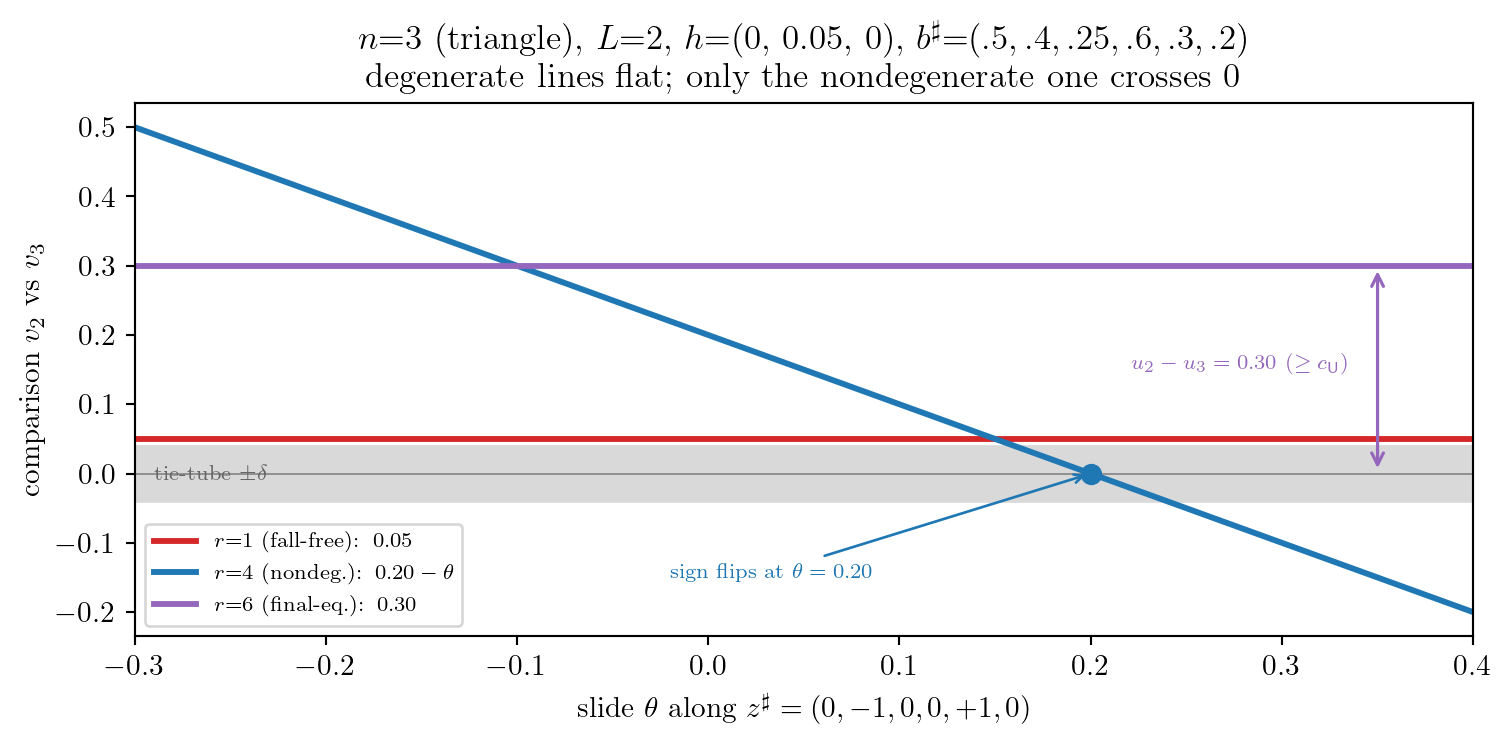
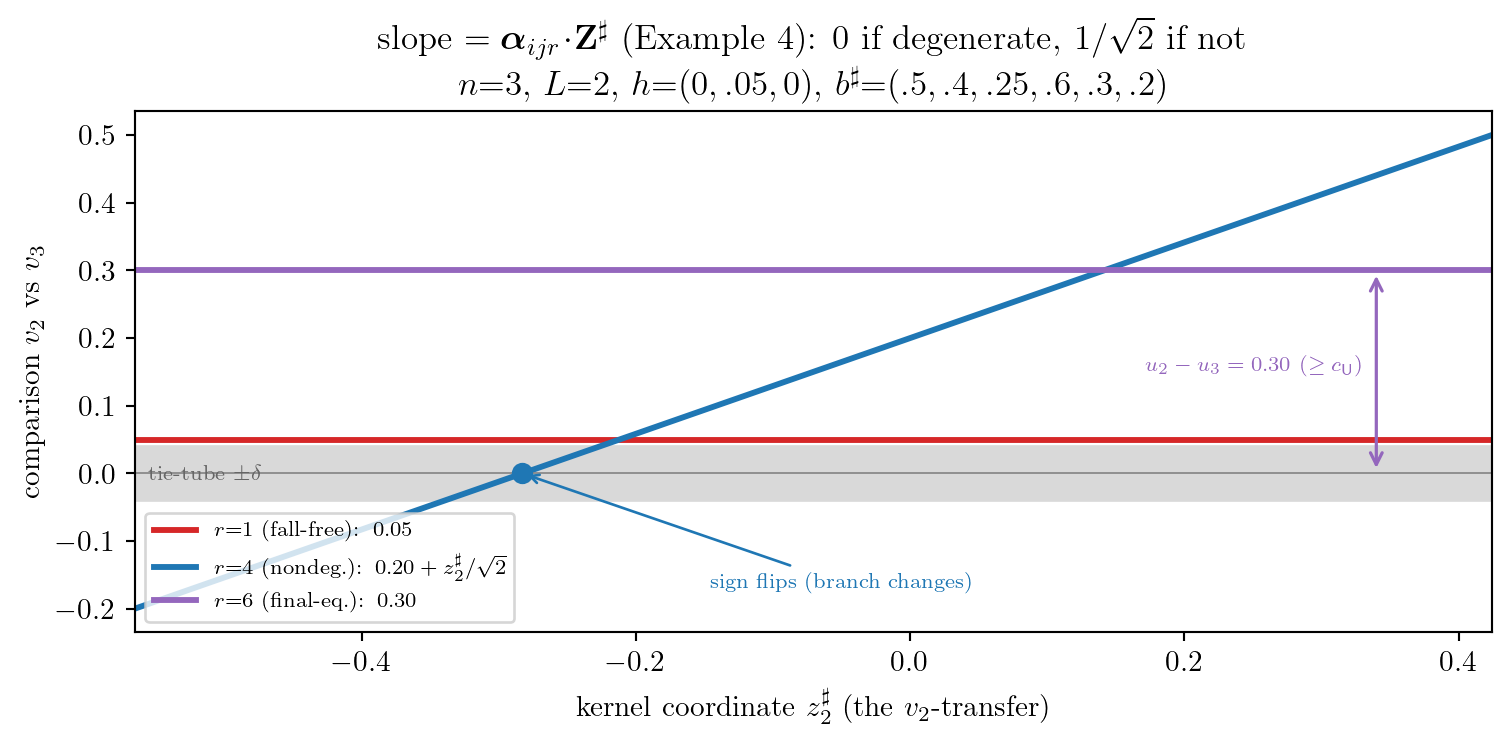
소미: 팟캐스트 z# 예제 논문기호로 전면 정합 (대표: θ도 새 기호라 안됨, 논문과 맞춰라 + 매우 자세히) — 슬라이드를 논문 커널좌표 z#_2 로(정규직교 Z# 명시, Example 1), 기울기=α·Z#(=1/√2, Example 4)로 단계계산, figure축 z#_2. θ·사족 제거. 검산: 기울기 0/0.7071/0 = α·Z2 일치

diff --git a/docs/Posts/260720_487261.html b/docs/Posts/260720_487261.html
@@ -293,17 +293,35 @@ window.Quarto = {
 </tbody>
 </table>
 <p><strong>G.</strong> 그럼 <span class="math inline">\(\mathbf{z}^{\sharp}\)</span> 은 구체적으로 뭐예요?</p>
-<p><strong>H.</strong> <span class="math inline">\(v_2\)</span> 의 두 낙하(2번·5번) 사이 이동이에요. 벡터로 딱 쓰면</p>
+<p><strong>H.</strong> 딴 기호 안 만들고 <strong>논문의 커널 좌표 그대로</strong>예요. 앞 회차에서 낙하벡터를 <span class="math inline">\(\mathbf{b}^{\sharp} = (\mathbf{A}^{\sharp})^{+}\mathbf{a}^{\sharp} + \mathbf{Z}^{\sharp}\mathbf{z}^{\sharp}\)</span> 로 쪼갰죠 — 최종 높이차를 정하는 <span class="math inline">\(\mathbf{a}^{\sharp}\)</span> 와, 그걸 안 바꾸는 <strong>자유 좌표</strong> <span class="math inline">\(\mathbf{z}^{\sharp} = (z^{\sharp}_1, z^{\sharp}_2, z^{\sharp}_3, z^{\sharp}_4)\)</span>. 이 예(<span class="math inline">\(n{=}3, L{=}2\)</span>)의 정규직교 기저는 (논문 Example 1)</p>
 <p><span class="math display">\[
-\mathbf{z}^{\sharp}\ \text{방향} \;=\; (0,\,-1,\,0,\,0,\,+1,\,0),
+\mathbf{Z}^{\sharp} = \begin{pmatrix}
+\tfrac{1}{\sqrt2} &amp; 0 &amp; 0 &amp; \tfrac{1}{\sqrt6}\\[1pt]
+0 &amp; \tfrac{1}{\sqrt2} &amp; 0 &amp; \tfrac{1}{\sqrt6}\\[1pt]
+0 &amp; 0 &amp; \tfrac{1}{\sqrt2} &amp; \tfrac{1}{\sqrt6}\\[1pt]
+-\tfrac{1}{\sqrt2} &amp; 0 &amp; 0 &amp; \tfrac{1}{\sqrt6}\\[1pt]
+0 &amp; -\tfrac{1}{\sqrt2} &amp; 0 &amp; \tfrac{1}{\sqrt6}\\[1pt]
+0 &amp; 0 &amp; -\tfrac{1}{\sqrt2} &amp; \tfrac{1}{\sqrt6}
+\end{pmatrix}
+\begin{matrix} \leftarrow b_1\\ \leftarrow b_2\\ \leftarrow b_3\\ \leftarrow b_4\\ \leftarrow b_5\\ \leftarrow b_6 \end{matrix}
 \]</span></p>
-<p>즉 2번 낙하에서 <span class="math inline">\(\theta\)</span> 를 빼고 5번 낙하에 <span class="math inline">\(\theta\)</span> 를 더하는 거죠 — 비교를 <span class="math inline">\(\mathbf{z}^{\sharp}\)</span> 로 <strong>곱하는</strong> 게 아니라, 낙하량 벡터를 이 방향으로 <span class="math inline">\(\theta\)</span> 만큼 <strong>옮기는</strong> 거예요 (<span class="math inline">\(\theta\)</span> 는 미는 양; 시각 <span class="math inline">\(t\)</span> 와는 무관한 별개 기호). <span class="math inline">\(v_2\)</span> 총량 <span class="math inline">\(0.40{+}0.30{=}0.70\)</span> 은 안 변하니 최종 높이차도 안 변해요 — 이 방향을 fall map 에 넣으면 정확히 <span class="math inline">\(\mathbf{0}\)</span> 이 나와요(그래서 “자유 방향”, 커널). <span class="math inline">\(\theta\)</span> 는 두 낙하량이 <span class="math inline">\([0,1]\)</span> 을 안 벗어나는 <span class="math inline">\(-0.30\le\theta\le 0.40\)</span> 안에서 밀 수 있고요. 그럼 “<span class="math inline">\(v_2\)</span> vs <span class="math inline">\(v_3\)</span>” 비교값을 세 시점에서 <strong>직접 계산</strong>하면:</p>
+<p>네 열은 각각 “<span class="math inline">\(v_1\)</span> 안 이전 / <span class="math inline">\(v_2\)</span> 안 이전 / <span class="math inline">\(v_3\)</span> 안 이전 / 전체 균등 추가”예요.</p>
+<p><strong>G.</strong> 우리가 미는 건 어느 거예요?</p>
+<p><strong>H.</strong> <strong>둘째 좌표 <span class="math inline">\(z^{\sharp}_2\)</span></strong> — 곧 <span class="math inline">\(\mathbf{Z}^{\sharp}\)</span> 의 둘째 열 <span class="math inline">\(\bigl(0, \tfrac{1}{\sqrt2}, 0, 0, -\tfrac{1}{\sqrt2}, 0\bigr)^{\!\top}\)</span>, “<span class="math inline">\(v_2\)</span> 의 두 낙하(2·5번) 사이 이전”이에요. <span class="math inline">\(z^{\sharp}_2\)</span> 만 움직이면 낙하벡터가</p>
+<p><span class="math display">\[
+\mathbf{b}^{\sharp}(z^{\sharp}_2) = \mathbf{b}^{\sharp}_0 + z^{\sharp}_2\cdot\bigl(0, \tfrac{1}{\sqrt2}, 0, 0, -\tfrac{1}{\sqrt2}, 0\bigr)^{\!\top},
+\qquad\text{즉}\quad b_2 = 0.40 + \tfrac{z^{\sharp}_2}{\sqrt2},\ \ b_5 = 0.30 - \tfrac{z^{\sharp}_2}{\sqrt2}
+\]</span></p>
+<p>로 바뀌고 나머지 넷은 그대로예요. 두 낙하 합 <span class="math inline">\(b_2{+}b_5 = 0.70\)</span> 은 안 변하니 <span class="math inline">\(v_2\)</span> 총량 불변 → <span class="math inline">\(\mathbf{A}^{\sharp}\mathbf{b}^{\sharp}\)</span>(최종 높이차)도 불변, 그래서 커널이고요. 이게 “<span class="math inline">\(\mathbf{z}^{\sharp}\)</span> 방향으로 민다”의 정확한 뜻이에요 — 낙하벡터를 이 커널 열 방향으로 <strong>옮기는</strong> 것.</p>
+<p><strong>G.</strong> 그럼 각 비교가 <span class="math inline">\(z^{\sharp}_2\)</span> 에 어떻게 반응해요?</p>
+<p><strong>H.</strong> 비교 하나는 <span class="math inline">\(\Delta_{ij}(\text{시작}) + \boldsymbol{\alpha}_{ijr}\cdot\mathbf{b}^{\sharp}\)</span> 니까, <span class="math inline">\(z^{\sharp}_2\)</span> 에 대한 <strong>기울기 <span class="math inline">\(= \boldsymbol{\alpha}_{ijr}\cdot(\mathbf{Z}^{\sharp}\text{의 둘째 열})\)</span></strong> 예요 — 이게 논문 Example 4 의 <span class="math inline">\(\boldsymbol{\alpha}\cdot\mathbf{Z}^{\sharp}\)</span> 둘째 성분이고요. 셋을 직접 계산하면:</p>
 <ul>
-<li><strong><span class="math inline">\(r=1\)</span></strong>: <span class="math inline">\(v_2\)</span>·<span class="math inline">\(v_3\)</span> 에 낙하 전 → 값 <span class="math inline">\(= h(v_2){-}h(v_3) = 0.05\)</span> (<span class="math inline">\(\theta\)</span> 무관, 평평)</li>
-<li><strong><span class="math inline">\(r=4\)</span></strong>: <span class="math inline">\(v_2\)</span> 는 2번<span class="math inline">\((0.40{-}\theta)\)</span>만, <span class="math inline">\(v_3\)</span> 는 3번<span class="math inline">\((0.25)\)</span>만 → 값 <span class="math inline">\(= 0.05 + (0.40{-}\theta) - 0.25 = 0.20 - \theta\)</span> (<span class="math inline">\(\theta{=}0.20\)</span> 에서 <span class="math inline">\(0\)</span> 가로지름)</li>
-<li><strong><span class="math inline">\(r=6\)</span></strong>: <span class="math inline">\(v_2\)</span> 는 <span class="math inline">\(0.70\)</span>, <span class="math inline">\(v_3\)</span> 는 <span class="math inline">\(0.45\)</span> 다 → 값 <span class="math inline">\(= 0.05 + 0.70 - 0.45 = 0.30\)</span> (<span class="math inline">\(\theta\)</span> 무관, 평평)</li>
+<li><strong><span class="math inline">\(r=1\)</span></strong>: <span class="math inline">\(\boldsymbol{\alpha}_{2,3,1}=(0,0,0,0,0,0)\)</span> → 기울기 <span class="math inline">\(0\)</span>, 값 <span class="math inline">\(= 0.05\)</span> (평평, <strong>퇴화</strong>).</li>
+<li><strong><span class="math inline">\(r=4\)</span></strong>: <span class="math inline">\(\boldsymbol{\alpha}_{2,3,4}=(0,1,-1,0,0,0)\)</span> → 기울기 <span class="math inline">\(= 1\cdot\tfrac{1}{\sqrt2} = \tfrac{1}{\sqrt2}\)</span>, 값 <span class="math inline">\(= 0.05 + b_2 - b_3 = 0.20 + \tfrac{z^{\sharp}_2}{\sqrt2}\)</span> (<strong>비퇴화</strong>, <span class="math inline">\(z^{\sharp}_2 = -0.2\sqrt2\)</span> 에서 <span class="math inline">\(0\)</span> 가로지름).</li>
+<li><strong><span class="math inline">\(r=6\)</span></strong>: <span class="math inline">\(\boldsymbol{\alpha}_{2,3,6}=(0,1,-1,0,1,-1)\)</span> → 기울기 <span class="math inline">\(= 1\cdot\tfrac{1}{\sqrt2} + 1\cdot(-\tfrac{1}{\sqrt2}) = 0\)</span>, 값 <span class="math inline">\(= 0.05 + 0.70 - 0.45 = 0.30\)</span> (평평, <strong>퇴화</strong>).</li>
 </ul>
-<div id="2ffbb164" class="cell" data-execution_count="1">
+<p><span class="math inline">\(r=6\)</span> 이 <span class="math inline">\(0\)</span> 인 건 <span class="math inline">\(v_2\)</span> 의 두 낙하가 <span class="math inline">\(+\)</span> 로 같이 세지는데 <span class="math inline">\(z^{\sharp}_2\)</span> 열이 그 둘을 반대 부호로 움직여 상쇄되기 때문 — “다 옴이 퇴화”의 정체가 이거예요.</p>
+<div id="3f57620d" class="cell" data-execution_count="1">
 <div class="cell-output cell-output-display">
 <div class="quarto-figure quarto-figure-center">
 <figure class="figure">
@@ -312,7 +330,7 @@ window.Quarto = {
 </div>
 </div>
 </div>
-<p><strong>G.</strong> 계산 그대로네요 — 평평한 둘(빨강 <span class="math inline">\(0.05\)</span>·보라 <span class="math inline">\(0.30\)</span>)은 밀어도 안 변하고, 파란 것만 <span class="math inline">\(0.20{-}\theta\)</span> 로 기울어져 <span class="math inline">\(\theta{=}0.20\)</span> 에서 <span class="math inline">\(0\)</span> 을 지나요. 같은 비교가 시점 따라 세 종류를 다 거치는 거고요.</p>
+<p><strong>G.</strong> 계산 그대로네요 — 평평한 둘(빨강 <span class="math inline">\(0.05\)</span>·보라 <span class="math inline">\(0.30\)</span>)은 <span class="math inline">\(z^{\sharp}_2\)</span> 를 밀어도 안 변하고, 파란 것만 기울기 <span class="math inline">\(1/\sqrt2\)</span> 로 기울어져 <span class="math inline">\(0\)</span> 을 지나요. 같은 비교가 시점 따라 세 종류를 다 거치는 거고요.</p>
 <p><strong>H.</strong> 그게 정확히 <strong>Lemma 13</strong> 이 말하는 거예요 — <span class="math inline">\(\mathbf{z}^{\sharp}\)</span> 에 안 흔들리는(퇴화) 비교는 딱 두 꼴, <strong>안 옴(아직 낙하 없음)</strong> 아니면 <strong>다 옴(낙하 다 받음)</strong> 뿐이에요. 방금 본 <span class="math inline">\(r{=}4\)</span> 처럼 <strong>일부만 온</strong> 비교는 — 없는 게 아니라 시점상 분명 있죠 — <strong>반드시 비퇴화</strong>고요. 왜 “일부만 온” 게 퇴화가 못 되냐면, 안 흔들리는 계수 배열은 아주 대칭적이어야 하거든요 — 같은 봉우리 몫은 다 같은 값, 봉우리별 합은 0. 근데 계수가 <span class="math inline">\(0\)</span> 아니면 <span class="math inline">\(\pm 1\)</span> 이라, “전부 0”(안 옴) 아니면 “전부 채움”(다 옴) 말고는 그 대칭을 못 맞춰요. 그 사이(일부만 채움)는 대칭이 깨져 반드시 흔들리죠.</p>
 <p><strong>G.</strong> 그럼 퇴화 둘은 안심해도 돼요?</p>
 <p><strong>H.</strong> 안심의 <strong>근거는 각각 달라요.</strong> 먼저 <strong>다 옴</strong>. 값이 곧 최종 높이차잖아요. 목표 <span class="math inline">\(\mathsf{U}\)</span> 를 처음부터 동률 없는 지역으로 골라서, 이 비교는 자동으로 어떤 양수 <span class="math inline">\(c_{\mathsf{U}}\)</span> 이상 동률에서 떨어져 있어요. 부호가 definite 하죠.</p>

diff --git a/docs/index.html b/docs/index.html
@@ -679,7 +679,7 @@ window.Quarto = {
 
 </tr>
 
-<tr data-index="1" data-listing-date-sort="1784473200000" data-listing-file-modified-sort="1784557164817" data-listing-date-modified-sort="NaN" data-listing-reading-time-sort="15" data-listing-word-count-sort="2829" data-listing-title-sort="연구 ▷ HST ▷ 작은 집합 만들기 (Def 7 – Lem 19) — 아주 쉽게, 팟캐스트로" data-listing-filename-sort="260720_연구_HST_Def7Lem19_팟캐스트해설.qmd">
+<tr data-index="1" data-listing-date-sort="1784473200000" data-listing-file-modified-sort="1784557664350" data-listing-date-modified-sort="NaN" data-listing-reading-time-sort="16" data-listing-word-count-sort="3069" data-listing-title-sort="연구 ▷ HST ▷ 작은 집합 만들기 (Def 7 – Lem 19) — 아주 쉽게, 팟캐스트로" data-listing-filename-sort="260720_연구_HST_Def7Lem19_팟캐스트해설.qmd">
 <td>
 <span class="listing-date">Jul 20, 2026</span>
 </td>
@@ -1908,7 +1908,7 @@ window.Quarto = {
 </thead>
 <tbody class="list">
 
-<tr data-index="0" data-listing-date-sort="1784473200000" data-listing-file-modified-sort="1784557164817" data-listing-date-modified-sort="NaN" data-listing-reading-time-sort="15" data-listing-word-count-sort="2829" data-listing-title-sort="연구 ▷ HST ▷ 작은 집합 만들기 (Def 7 – Lem 19) — 아주 쉽게, 팟캐스트로" data-listing-filename-sort="260720_연구_HST_Def7Lem19_팟캐스트해설.qmd">
+<tr data-index="0" data-listing-date-sort="1784473200000" data-listing-file-modified-sort="1784557664350" data-listing-date-modified-sort="NaN" data-listing-reading-time-sort="16" data-listing-word-count-sort="3069" data-listing-title-sort="연구 ▷ HST ▷ 작은 집합 만들기 (Def 7 – Lem 19) — 아주 쉽게, 팟캐스트로" data-listing-filename-sort="260720_연구_HST_Def7Lem19_팟캐스트해설.qmd">
 <td>
 <span class="listing-date">Jul 20, 2026</span>
 </td>
@@ -2808,7 +2808,7 @@ window.Quarto = {
 </thead>
 <tbody class="list">
 
-<tr data-index="0" data-listing-date-sort="1784473200000" data-listing-file-modified-sort="1784557164817" data-listing-date-modified-sort="NaN" data-listing-reading-time-sort="15" data-listing-word-count-sort="2829" data-listing-title-sort="연구 ▷ HST ▷ 작은 집합 만들기 (Def 7 – Lem 19) — 아주 쉽게, 팟캐스트로" data-listing-filename-sort="260720_연구_HST_Def7Lem19_팟캐스트해설.qmd">
+<tr data-index="0" data-listing-date-sort="1784473200000" data-listing-file-modified-sort="1784557664350" data-listing-date-modified-sort="NaN" data-listing-reading-time-sort="16" data-listing-word-count-sort="3069" data-listing-title-sort="연구 ▷ HST ▷ 작은 집합 만들기 (Def 7 – Lem 19) — 아주 쉽게, 팟캐스트로" data-listing-filename-sort="260720_연구_HST_Def7Lem19_팟캐스트해설.qmd">
 <td>
 <span class="listing-date">Jul 20, 2026</span>
 </td>
